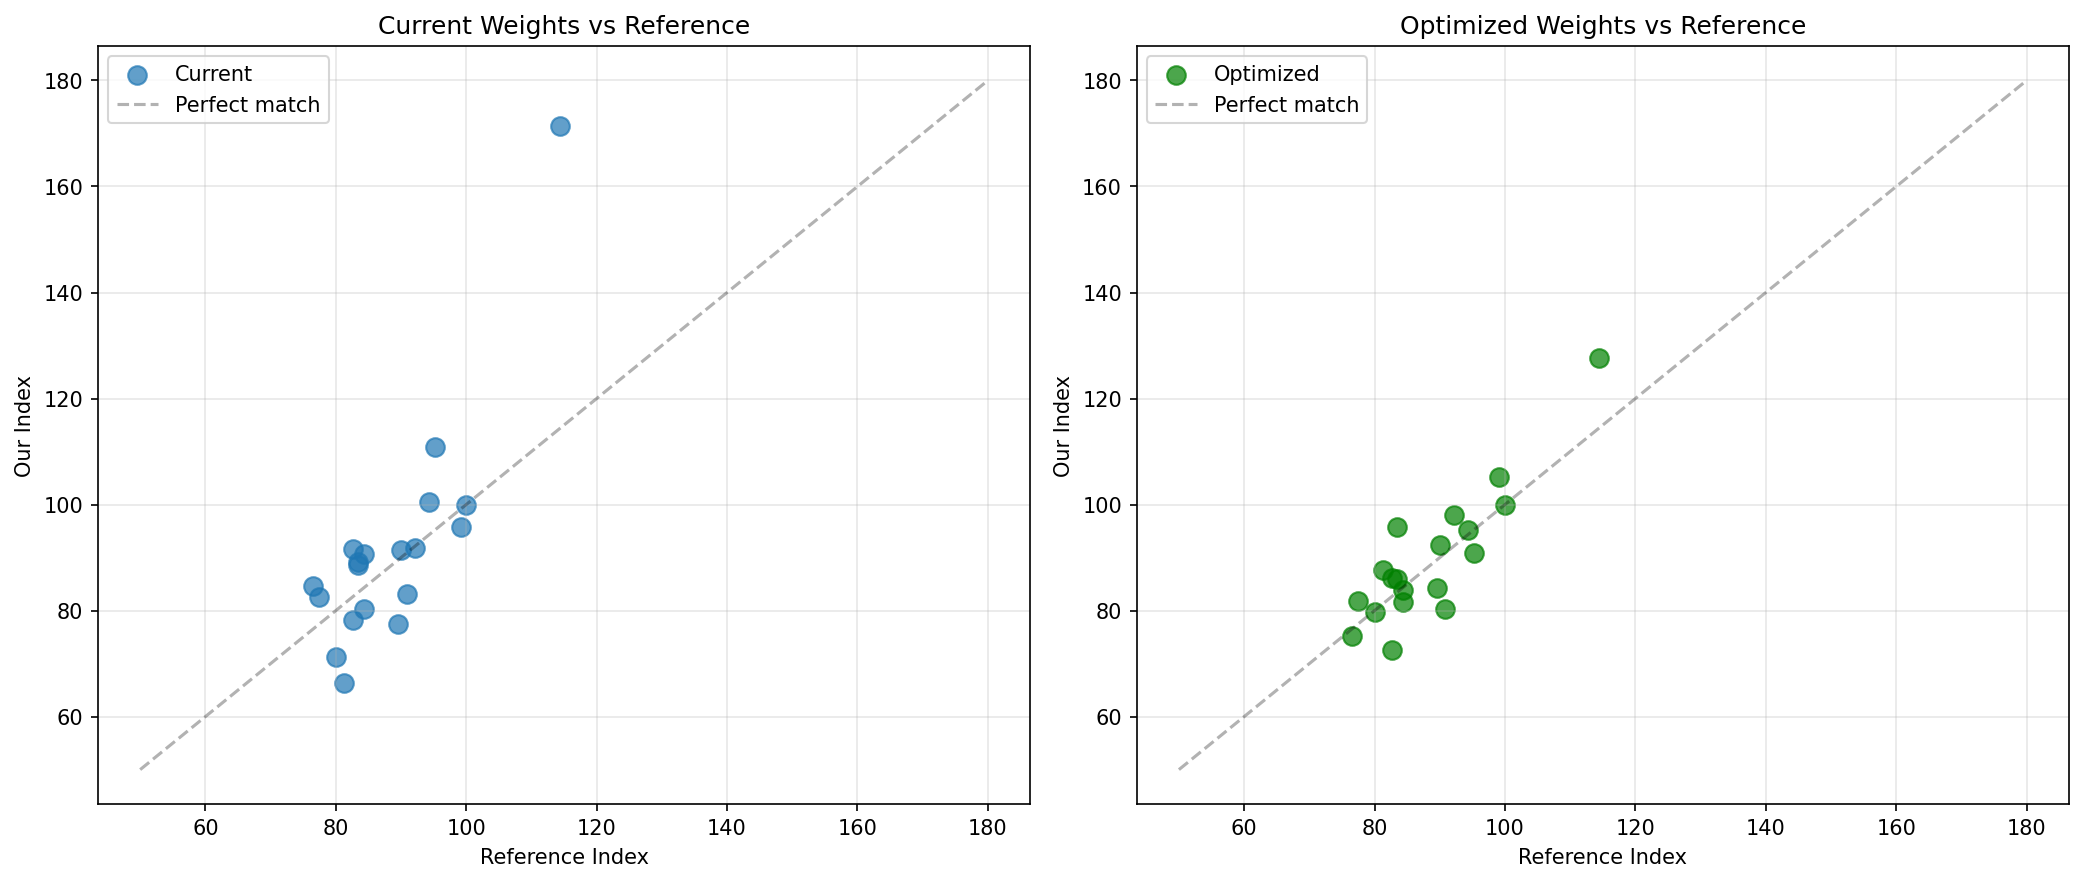
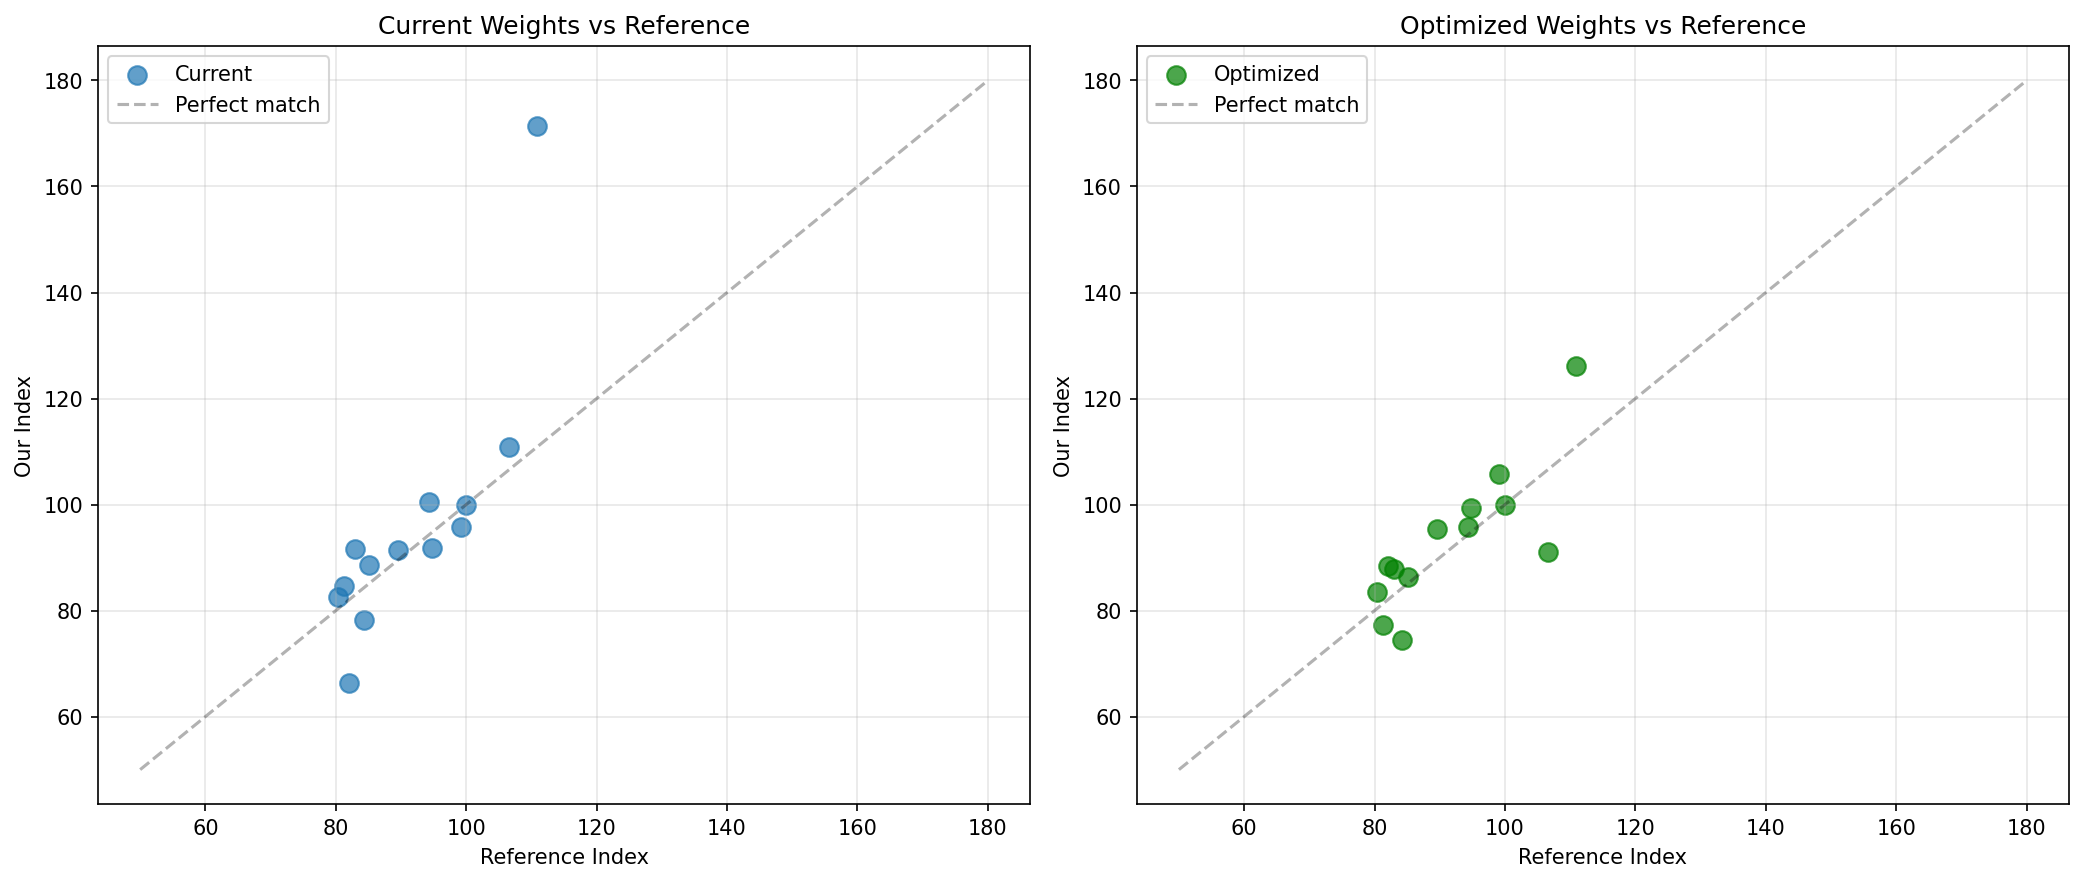
refactor: update Numbeo reference data to 15 cities from user screenshot

diff --git a/weight_optimizer.py b/weight_optimizer.py
@@ -45,31 +45,24 @@ class WeightOptimizer:
         print(f"\n[1] Loading reference data from {source}...")
         
         # Numbeo Cost of Living Index (2026)
-        # Source: Numbeo.com rankings
-        # Raw indices — will normalize to Delhi = 100
+        # Source: User-provided Numbeo screenshot
+        # Raw COL indices — will normalize to Delhi = 100
         numbeo_raw = {
-            'Mumbai': 26.3,
-            'Gurgaon': 24.7,
-            'Delhi': 23.0,
-            'Pune': 22.8,
-            'Bangalore': 21.9,
-            'Noida': 21.9,
-            'Hyderabad': 21.7,
-            'Ahmedabad': 21.2,
-            'Chandigarh': 20.9,
-            'Chennai': 20.7,
-            'Thane': 20.7,
-            'Vadodara': 20.6,
-            'Bhubaneswar': 19.4,
-            'Patna': 19.4,
-            'Bhopal': 19.2,
-            'Kolkata': 19.2,
-            'Kochi': 19.0,
+            'Mumbai': 25.4,
+            'Gurgaon': 24.6,
+            'Bangalore': 24.4,
+            'Delhi': 22.9,
+            'Pune': 22.7,
+            'Noida': 22.3,
+            'Ahmedabad': 21.7,
+            'Hyderabad': 21.6,
+            'Chennai': 20.5,
+            'Kolkata': 19.5,
+            'Kochi': 19.3,
             'Jaipur': 19.0,
-            'Surat': 18.7,
-            'Indore': 18.4,
-            'Lucknow': 17.8,
-            'Coimbatore': 17.6,
+            'Surat': 18.8,
+            'Coimbatore': 18.6,
+            'Lucknow': 18.4,
         }
         
         # Normalize to Delhi = 100
